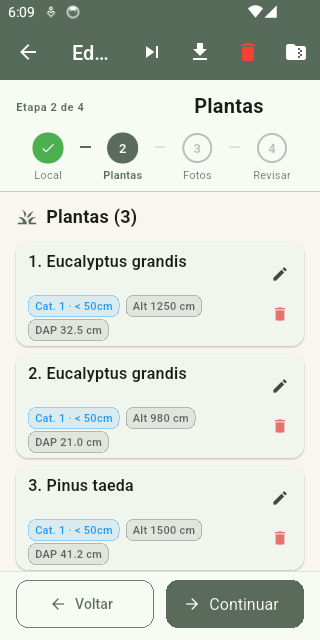
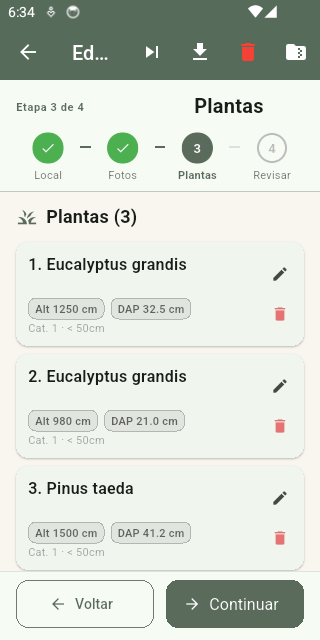
fix(app): categoria sai do topo do form da planta e vira linha discreta
- removido o container colorido 'Categoria N + descricao' que abria o form
  (visual de app infantil) e o checkbox que vinha logo abaixo, antes de
  altura/DAP
- agora: altura -> DAP -> linha cinza pequena 'Categoria calculada:
  Cat. N - regra' + checkbox compacto 'Quero apenas selecionar a
  categoria' (dense, sem padding) + dropdown so quando manual
- import de app_tokens para os tokens de fonte

Gates: analyze 0 erros | test 127/127 pass

diff --git a/urutau-app/lib/screens/planta_form_screen.dart b/urutau-app/lib/screens/planta_form_screen.dart
@@ -7,6 +7,7 @@ import 'package:uuid/uuid.dart';
 import 'package:provider/provider.dart';
 import '../data/database.dart';
 import '../data/categoria_helper.dart';
+import '../theme/app_tokens.dart';
 import '../data/especie_item.dart';
 import '../services/image_service.dart';
 import '../services/species_service.dart';
@@ -144,14 +145,6 @@ class _PlantaFormScreenState extends State<PlantaFormScreen> {
 
   @override
   Widget build(BuildContext context) {
-    final categoriaColors = {
-      0: Colors.grey,
-      1: Colors.blue,
-      2: Colors.orange,
-      3: Colors.green,
-    };
-    final color = categoriaColors[_categoria] ?? Colors.grey;
-
     return Scaffold(
       appBar: AppBar(
         title: Text(_isEditing ? 'Editar Planta' : 'Adicionar Planta'),
@@ -164,144 +157,7 @@ class _PlantaFormScreenState extends State<PlantaFormScreen> {
             keyboardDismissBehavior: ScrollViewKeyboardDismissBehavior.onDrag,
             padding: const EdgeInsets.all(16),
             children: [
-              if (_categoriaManual)
-                Container(
-                  padding: const EdgeInsets.symmetric(
-                    vertical: 12,
-                    horizontal: 16,
-                  ),
-                  decoration: BoxDecoration(
-                    color: categoriaColors[_categoriaManualSelecionada ?? 0]
-                            ?.withAlpha(30) ??
-                        Colors.grey.withAlpha(30),
-                    borderRadius: BorderRadius.circular(12),
-                    border: Border.all(
-                        color: categoriaColors[_categoriaManualSelecionada ?? 0]
-                                ?.withAlpha(80) ??
-                            Colors.grey.withAlpha(80)),
-                  ),
-                  child: Row(
-                    children: [
-                      Icon(Icons.category,
-                          color: categoriaColors[
-                                  _categoriaManualSelecionada ?? 0] ??
-                              Colors.grey),
-                      const SizedBox(width: 12),
-                      Expanded(
-                        child: Column(
-                          crossAxisAlignment: CrossAxisAlignment.start,
-                          children: [
-                            Text(
-                              'Categoria ${_categoriaManualSelecionada ?? '-'}',
-                              style: TextStyle(
-                                fontSize: 18,
-                                fontWeight: FontWeight.bold,
-                                color: categoriaColors[
-                                        _categoriaManualSelecionada ?? 0] ??
-                                    Colors.grey,
-                              ),
-                            ),
-                            if (_categoriaManualSelecionada != null)
-                              Text(
-                                descricaoCategoria(
-                                    _categoriaManualSelecionada!),
-                                style: TextStyle(
-                                  fontSize: 13,
-                                  color: categoriaColors[
-                                              _categoriaManualSelecionada ?? 0]
-                                          ?.withAlpha(200) ??
-                                      Colors.grey.withAlpha(200),
-                                ),
-                              ),
-                          ],
-                        ),
-                      ),
-                    ],
-                  ),
-                )
-              else if (_categoria > 0)
-                Container(
-                  padding: const EdgeInsets.symmetric(
-                    vertical: 12,
-                    horizontal: 16,
-                  ),
-                  decoration: BoxDecoration(
-                    color: color.withAlpha(30),
-                    borderRadius: BorderRadius.circular(12),
-                    border: Border.all(color: color.withAlpha(80)),
-                  ),
-                  child: Row(
-                    children: [
-                      Icon(Icons.category, color: color),
-                      const SizedBox(width: 12),
-                      Expanded(
-                        child: Column(
-                          crossAxisAlignment: CrossAxisAlignment.start,
-                          children: [
-                            Text(
-                              'Categoria $_categoria',
-                              style: TextStyle(
-                                fontSize: 18,
-                                fontWeight: FontWeight.bold,
-                                color: color,
-                              ),
-                            ),
-                            Text(
-                              descricaoCategoria(_categoria),
-                              style: TextStyle(
-                                fontSize: 13,
-                                color: color.withAlpha(200),
-                              ),
-                            ),
-                          ],
-                        ),
-                      ),
-                    ],
-                  ),
-                ),
-              const SizedBox(height: 24),
-              Semantics(
-                label: 'Selecionar categoria manualmente',
-                child: CheckboxListTile(
-                  title: const Text('Quero apenas selecionar a categoria'),
-                  value: _categoriaManual,
-                  onChanged: (val) {
-                    setState(() {
-                      _categoriaManual = val ?? false;
-                      if (!_categoriaManual) _categoriaManualSelecionada = null;
-                    });
-                  },
-                ),
-              ),
-              if (_categoriaManual)
-                Semantics(
-                  label: 'Selecione a categoria',
-                  child: DropdownButtonFormField<int>(
-                    decoration: InputDecoration(
-                      labelText: 'Selecione a categoria',
-                      border: OutlineInputBorder(
-                        borderRadius: BorderRadius.circular(12),
-                      ),
-                    ),
-                    value: _categoriaManualSelecionada,
-                    items: [1, 2, 3]
-                        .map((cat) => DropdownMenuItem(
-                              value: cat,
-                              child: Text('Categoria $cat'),
-                            ))
-                        .toList(),
-                    onChanged: (val) {
-                      setState(() {
-                        _categoriaManualSelecionada = val;
-                      });
-                    },
-                    validator: (v) {
-                      if (v == null) return 'Selecione a categoria';
-                      return null;
-                    },
-                  ),
-                ),
-              const SizedBox(height: 24),
+              const SizedBox(height: 4),
 Wrap(
         spacing: 8,
         runSpacing: 4,
@@ -575,6 +431,65 @@ Semantics(
                           ],
                         )
                       : const SizedBox.shrink(),
+                ),
+              // Categoria DEPOIS de altura/DAP (é derivada deles) e
+              // DISCRETA: linha de texto pequena + escape manual compacto.
+              const SizedBox(height: 4),
+              Text(
+                _categoriaManual
+                    ? 'Categoria: ${_categoriaManualSelecionada != null ? rotuloChipCategoria(_categoriaManualSelecionada!) : '—'}'
+                    : (_categoria > 0
+                        ? 'Categoria calculada: ${rotuloChipCategoria(_categoria)}'
+                        : 'Categoria: calculada pela altura/DAP'),
+                style: TextStyle(
+                  fontSize: AppTokens.fontCaption,
+                  color: Colors.grey[600],
+                ),
+              ),
+              Semantics(
+                label: 'Selecionar categoria manualmente',
+                child: CheckboxListTile(
+                  contentPadding: EdgeInsets.zero,
+                  dense: true,
+                  visualDensity: VisualDensity.compact,
+                  title: Text(
+                    'Quero apenas selecionar a categoria',
+                    style: TextStyle(fontSize: AppTokens.fontSmall),
+                  ),
+                  value: _categoriaManual,
+                  onChanged: (val) {
+                    setState(() {
+                      _categoriaManual = val ?? false;
+                      if (!_categoriaManual) _categoriaManualSelecionada = null;
+                    });
+                  },
+                ),
+              ),
+              if (_categoriaManual)
+                Padding(
+                  padding: const EdgeInsets.only(left: 12),
+                  child: DropdownButtonFormField<int>(
+                    decoration: const InputDecoration(
+                      labelText: 'Selecione a categoria',
+                      isDense: true,
+                    ),
+                    value: _categoriaManualSelecionada,
+                    items: [1, 2, 3]
+                        .map((cat) => DropdownMenuItem(
+                              value: cat,
+                              child: Text('Categoria $cat'),
+                            ))
+                        .toList(),
+                    onChanged: (val) {
+                      setState(() {
+                        _categoriaManualSelecionada = val;
+                      });
+                    },
+                    validator: (v) {
+                      if (v == null) return 'Selecione a categoria';
+                      return null;
+                    },
+                  ),
                 ),
               const SizedBox(height: 8),
               Text(
